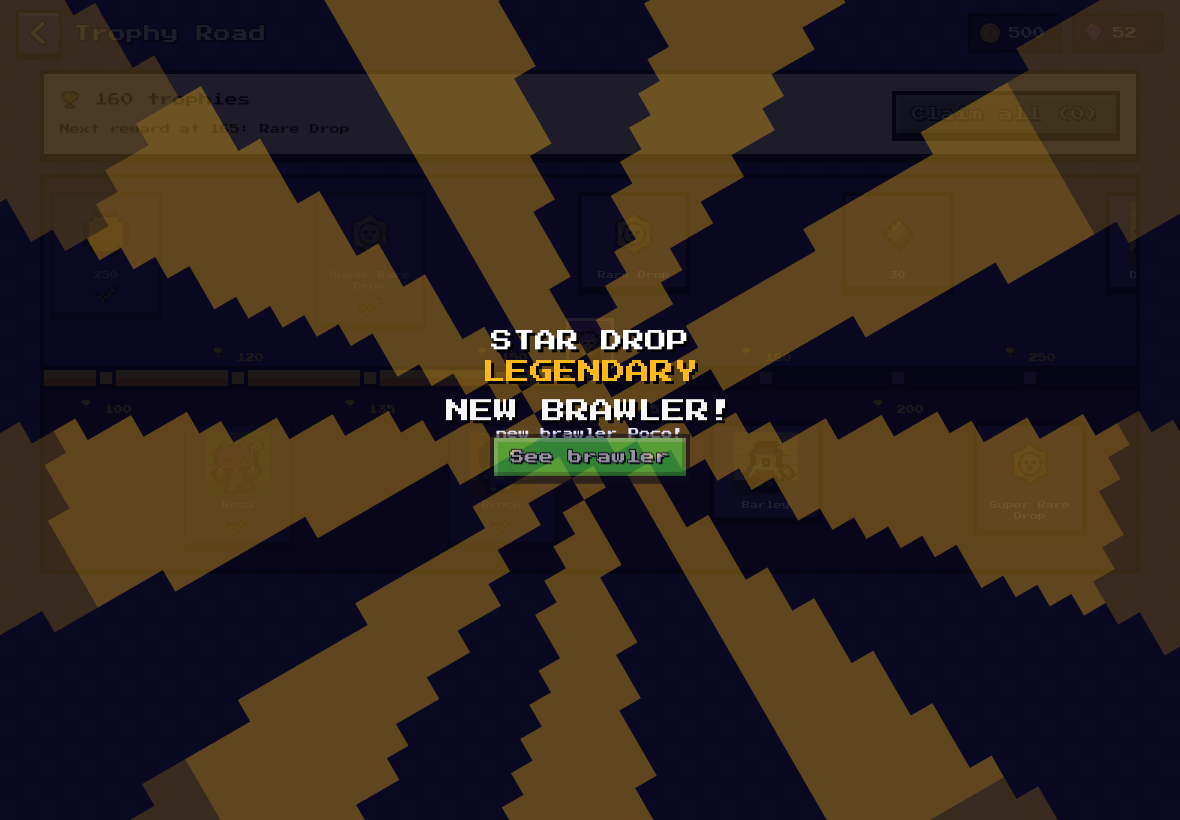
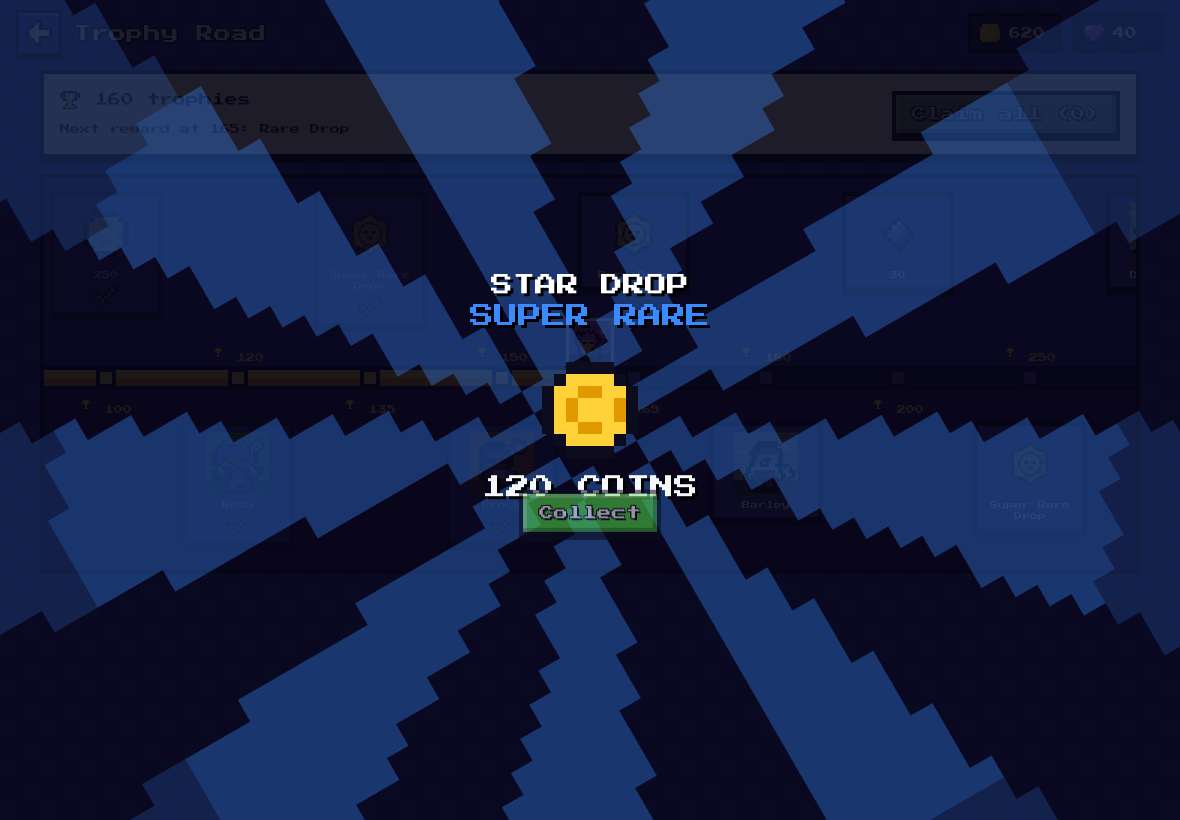
Secret code box to unlock brawlers by name; better Star Drops with skins, power ups and pass XP
Claude-Session: https://claude.ai/code/session_01FdRq2KxaynozDRfyymzMuF

diff --git a/Brawl8Bit.html b/Brawl8Bit.html
@@ -586,6 +586,7 @@ input[type=text]{font-size:13px}
     <div class="set"><span>Bot difficulty</span><select id="setBots"><option value="easy">Easy</option><option value="normal">Normal</option><option value="hard">Hard</option></select></div>
     <div class="set"><span>Mute everything</span><button class="toggle" id="setMute" aria-label="Mute"></button></div>
     <div class="set"><span>Screen shake</span><button class="toggle" id="setShake" aria-label="Screen shake"></button></div>
+    <div class="set"><span>Secret code</span><span class="row" style="gap:6px"><input type="text" id="setCode" maxlength="20" placeholder="Brawler name" aria-label="Secret code"><button class="btn small green" id="setCodeGo">Go</button></span></div>
     <div class="set"><span>Voice lines</span><button class="toggle" id="setVoice" aria-label="Voice lines"></button></div>
     <div class="set"><span>Damage numbers</span><button class="toggle" id="setNums" aria-label="Damage numbers"></button></div>
     <div class="set"><span>Tap attack button to auto-aim</span><button class="toggle" id="setAuto" aria-label="Auto aim"></button></div>
@@ -1961,11 +1962,11 @@ const ROAD = [
   { t: 1650, brawler: 'rico' }, { t: 1750, brawler: 'darryl' }, { t: 1850, brawler: 'penny' }, { t: 1900, brawler: 'carl' }, { t: 2100, brawler: 'bo' }, { t: 2200, brawler: 'pam' }, { t: 2300, drop: 3 }, { t: 2500, gems: 150 },
 ];
 const STAR_DROPS = [
-  { name: 'Rare', col: '#5ad84a', w: 50, rewards: [{ coins: 30 }, { coins: 40 }, { gems: 2 }] },
-  { name: 'Super Rare', col: '#3a8aff', w: 28, rewards: [{ coins: 70 }, { gems: 5 }, { coins: 90 }] },
-  { name: 'Epic', col: '#c050ff', w: 15, rewards: [{ coins: 150 }, { gems: 12 }] },
-  { name: 'Mythic', col: '#ff4a6a', w: 5, rewards: [{ coins: 300 }, { gems: 25 }, { brawlerRandom: true }] },
-  { name: 'Legendary', col: '#ffb81a', w: 2, rewards: [{ brawlerRandom: true }, { coins: 600 }] },
+  { name: 'Rare', col: '#5ad84a', w: 44, rewards: [{ coins: 50 }, { coins: 70 }, { gems: 3 }, { xp: 50 }] },
+  { name: 'Super Rare', col: '#3a8aff', w: 30, rewards: [{ coins: 120 }, { coins: 150 }, { gems: 8 }, { xp: 100 }] },
+  { name: 'Epic', col: '#c050ff', w: 16, rewards: [{ coins: 250 }, { gems: 15 }, { skin: true }, { upgrade: true }, { xp: 200 }] },
+  { name: 'Mythic', col: '#ff4a6a', w: 7, rewards: [{ coins: 500 }, { gems: 30 }, { skin: true }, { upgrade: true }, { brawlerRandom: true }] },
+  { name: 'Legendary', col: '#ffb81a', w: 3, rewards: [{ brawlerRandom: true }, { brawlerRandom: true }, { coins: 1000 }, { gems: 60 }, { skin: true }] },
 ];
 
 function makeQuest() {
@@ -4882,6 +4883,9 @@ function grant(r, silent) {
     else { b.owned = true; out.push(`new brawler ${BR[r.brawler].name}!`); fxQueue({ type: 'unlock', id: r.brawler }); }
   }
   if (r.drop !== undefined) { out.push(`a ${STAR_DROPS[r.drop].name} Star Drop`); fxQueue({ type: 'drop', min: r.drop }); }
+  if (r.xp) { S.passXp += r.xp; out.push(`${r.xp} pass XP`); checkPassBonus(); }
+  if (r.skinOf) { const st = S.brawlers[r.skinOf]; st.skins = st.skins || []; if (!st.skins.includes(r.skinId)) st.skins.push(r.skinId); out.push(`${skinName(r.skinOf, r.skinId)} ${BR[r.skinOf].name} skin`); }
+  if (r.upgradeOf) { const st = S.brawlers[r.upgradeOf]; st.level = Math.min(MAX_LEVEL, st.level + 1); out.push(`${BR[r.upgradeOf].name} is now Power ${st.level}`); }
   save(); updateWallet();
   if (!silent) { Sound.play('buy'); toast('You got ' + out.join(' + ')); }
   return out;
@@ -5275,7 +5279,7 @@ function renderQuests() {
 }
 
 // ---------------- pass / road ----------------
-function rewardCanvas(c, r) { const x = 22, y = 22; if (r.drop !== undefined) { c.setTransform(1, 0, 0, 1, 0, 0); drawDropStar(c.canvas); } else if (r.brawler) { c.setTransform(1, 0, 0, 1, 0, 0); drawPortrait(c.canvas, r.brawler, { scale: 2.4 }); } else if (r.coins) drawCoinIcon(c, x, y, 16); else drawGem(c, x, y, 1.6, 0); }
+function rewardCanvas(c, r) { const x = 22, y = 22; if (r.skinOf || r.upgradeOf) { c.setTransform(1, 0, 0, 1, 0, 0); drawPortrait(c.canvas, r.skinOf || r.upgradeOf, { scale: 2.4, skin: r.skinId || '' }); return; } if (r.xp) { drawSpr(c, 'star', x, y + 4, 4, true); return; } if (r.drop !== undefined) { c.setTransform(1, 0, 0, 1, 0, 0); drawDropStar(c.canvas); } else if (r.brawler) { c.setTransform(1, 0, 0, 1, 0, 0); drawPortrait(c.canvas, r.brawler, { scale: 2.4 }); } else if (r.coins) drawCoinIcon(c, x, y, 16); else drawGem(c, x, y, 1.6, 0); }
 function renderPass() {
   const B = $('#passBody'), tab = App.passTab;
   $('#passTitle').textContent = tab === 'pass' ? 'Brawl Pass' : 'Trophy Road';
@@ -5604,18 +5608,20 @@ function fxDrop(min) {
     if (taps >= need) return;
     taps++;
     if (taps < need) {
-      if (lvl < STAR_DROPS.length - 1 && Math.random() < 0.22) { lvl++; Sound.play('reveal'); btn.classList.remove('up'); void btn.offsetWidth; btn.classList.add('up'); }
+      if (lvl < STAR_DROPS.length - 1 && Math.random() < 0.3) { lvl++; Sound.play('reveal'); btn.classList.remove('up'); void btn.offsetWidth; btn.classList.add('up'); }
       else Sound.play('dropTap', taps);
       btn.classList.remove('shake'); void btn.offsetWidth; btn.classList.add('shake');
       paint(); $('#fxHint').textContent = `Tap ${need - taps} more!`; return;
     }
     const D = STAR_DROPS[lvl]; let rw = { ...pick(D.rewards) };
     if (rw.brawlerRandom) { const lk = BR_LIST.filter(b => !S.brawlers[b.id].owned); rw = lk.length ? { brawler: pick(lk).id } : { coins: 400 }; }
+    if (rw.skin) { const opts = BR_LIST.filter(b => S.brawlers[b.id].owned).flatMap(b => (SPECIAL_SKINS[b.id] || []).filter(k => !(S.brawlers[b.id].skins || []).includes(k.id)).map(k => ({ skinOf: b.id, skinId: k.id }))); rw = opts.length ? pick(opts) : { coins: 300 }; }
+    if (rw.upgrade) { const opts = BR_LIST.filter(b => S.brawlers[b.id].owned && S.brawlers[b.id].level < MAX_LEVEL); rw = opts.length ? { upgradeOf: pick(opts).id } : { coins: 300 }; }
     btn.classList.add('burst'); Sound.play('burst');
     setTimeout(() => {
       const got = grant(rw, true); S.stats.starDrops = (S.stats.starDrops || 0) + 1; save();
       btn.hidden = true; $('#fxHint').textContent = '';
-      $('#fxOut').innerHTML = `<canvas class="fxrw" width="132" height="132"></canvas><div class="fxname">${rw.brawler ? 'NEW BRAWLER!' : rw.coins ? `${fmt(rw.coins)} COINS` : `${fmt(rw.gems)} GEMS`}</div>${rw.brawler ? `<p class="fxinfo">${got.join(' + ')}</p>` : ''}<button class="btn green" id="fxGo">${rw.brawler ? 'See brawler' : 'Collect'}</button>`;
+      $('#fxOut').innerHTML = `<canvas class="fxrw" width="132" height="132"></canvas><div class="fxname">${rw.brawler ? 'NEW BRAWLER!' : rw.skinOf ? 'NEW SKIN!' : rw.upgradeOf ? 'POWER UP!' : rw.xp ? `${fmt(rw.xp)} PASS XP` : rw.coins ? `${fmt(rw.coins)} COINS` : `${fmt(rw.gems)} GEMS`}</div>${rw.brawler || rw.skinOf || rw.upgradeOf ? `<p class="fxinfo">${got.join(' + ')}</p>` : ''}<button class="btn green" id="fxGo">${rw.brawler ? 'See brawler' : 'Collect'}</button>`;
       const rc = $('#fxOut canvas').getContext('2d'); if (rw.brawler) rc.canvas.style.display = 'none'; else { rc.scale(3, 3); rewardCanvas(rc, rw); }
       $('#fxGo').onclick = () => { Sound.play('click'); fxNext(); };
     }, 420);
@@ -5650,6 +5656,15 @@ function renderRoad() {
 function goHome() { G = null; show('menu'); Sound.music('menu'); }
 
 // ---------------- wiring ----------------
+// secret code: type the name of a brawler in the game to unlock them
+function useCode() {
+  const norm = t => t.toLowerCase().replace(/[^a-z0-9]/g, ''), v = norm($('#setCode').value);
+  if (!v) return;
+  const d = BR_LIST.find(b => norm(b.name) === v || b.id === v);
+  if (!d) { Sound.play('error'); toast('No brawler with that name in this game.'); return; }
+  if (S.brawlers[d.id].owned) { toast(`You already have ${d.name}!`); return; }
+  $('#setCode').value = ''; $('#ov-settings').hidden = true; grant({ brawler: d.id }, true);
+}
 function bindUI() {
   document.addEventListener('click', e => { const b = e.target.closest('button'); if (b && !b.disabled) Sound.play('click'); });
   const unlock = () => { Sound.init(); Sound.resume(); Sound.music(App.screen === 'battle' ? 'battle' : 'menu'); };
@@ -5662,6 +5677,7 @@ function bindUI() {
   $('#featured').onclick = () => { App.detailId = S.selected; show('detail'); };
   $('#playBtn').onclick = startMatch;
   $('#btnPause').onclick = () => togglePause(true);
+  $('#setCodeGo').onclick = useCode; $('#setCode').onkeydown = e => { if (e.key === 'Enter') useCode(); };
   $('#bdClose').onclick = () => { $('#ov-bd').hidden = true; if (App.screen === 'detail') renderDetail(); };
   $('#btnPin').innerHTML = pxi('smile'); $('#btnPin').onclick = () => togglePins();
 
